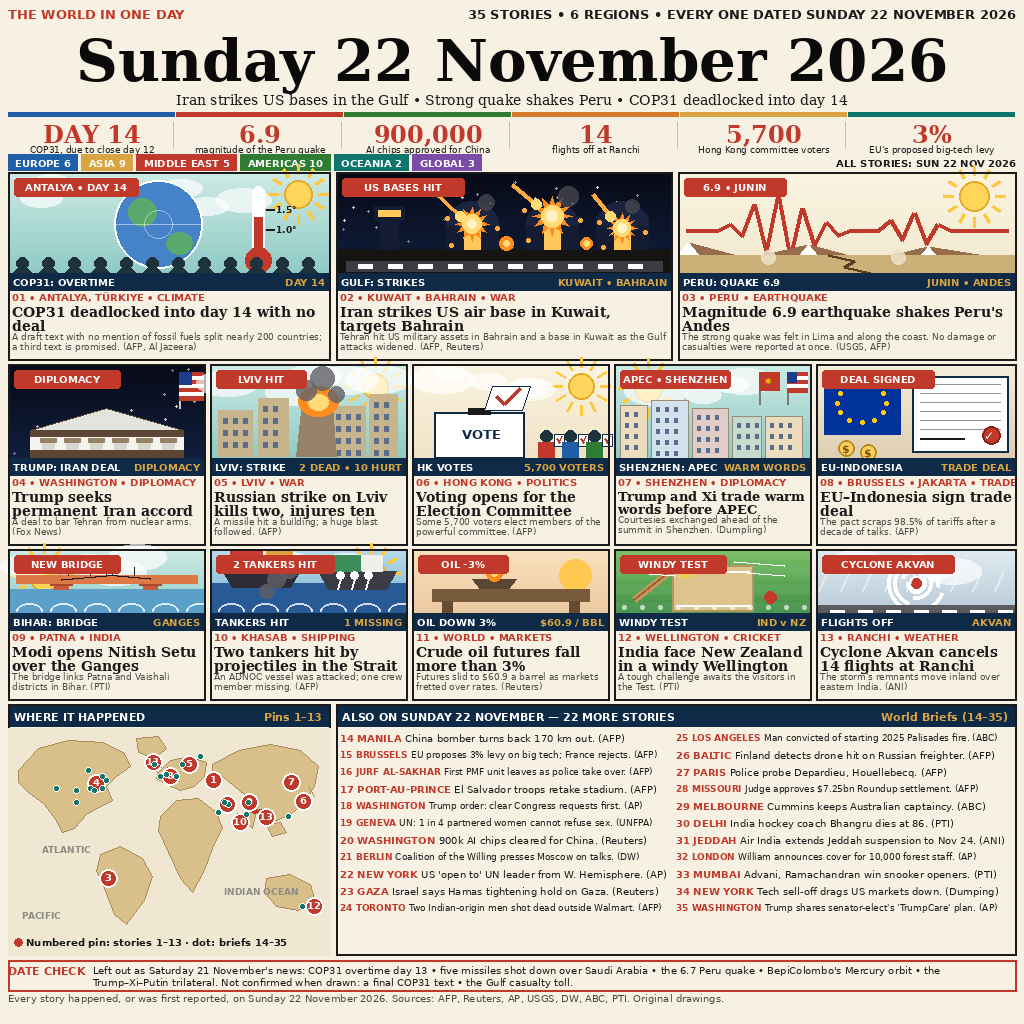
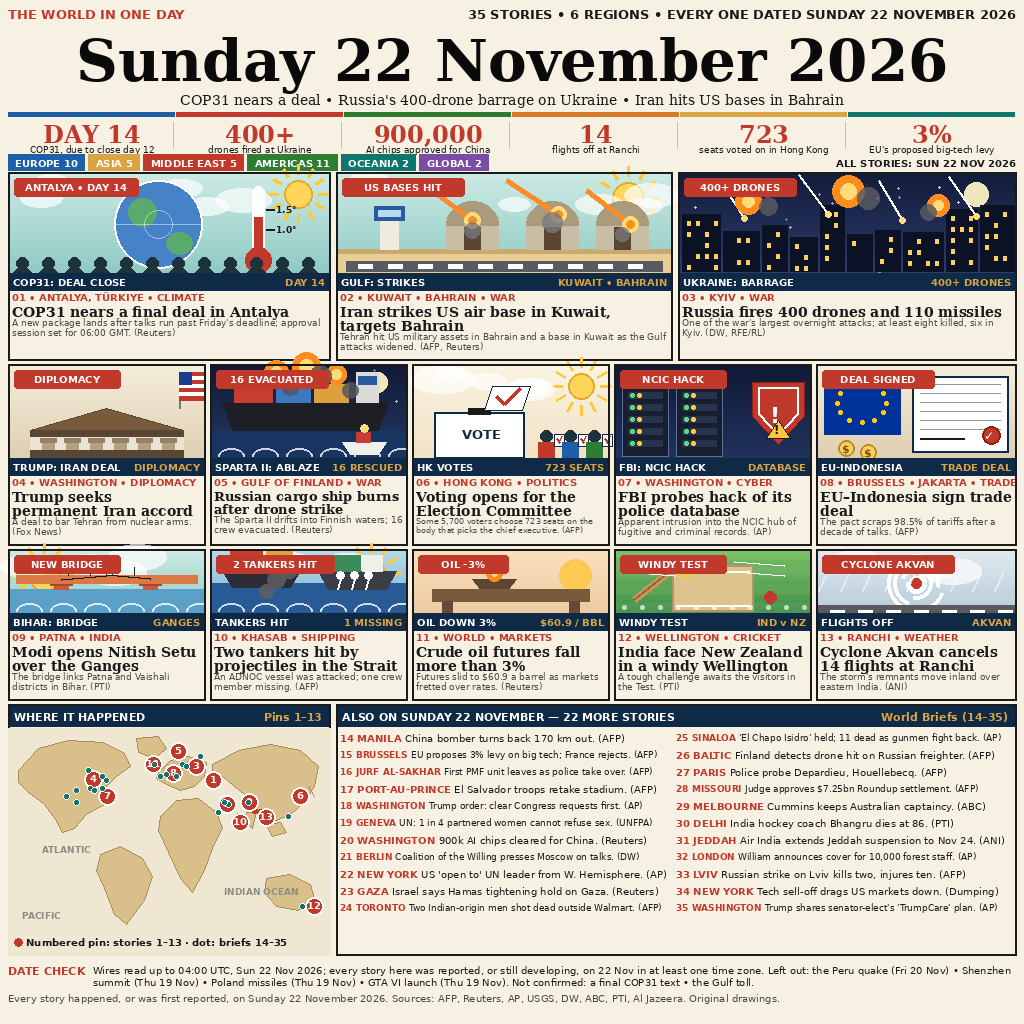
v5: drop wrong-date Peru quake + Shenzhen, lead barrage/Sparta II/FBI hack, COP31 nears deal, DATE CHECK with wires time

diff --git a/main.py b/main.py
@@ -1,7 +1,7 @@
 #!/usr/bin/env python3
-"""main.py — news-image-20261122 entrypoint (v4).
+"""main.py — news-image-20261122 entrypoint (v5).
 
-The entry image is pre-rendered on the build machine by build_v4.py
+The entry image is pre-rendered on the build machine by build_v5.py
 (code-drawn flat 2D vector, 1024x1024 PNG, well under 1 MiB) and
 shipped in this repo as entry.png. This program does no image work:
 it only validates the shipped file and copies it byte-for-byte into
@@ -43,6 +43,8 @@ def main():
         return fail("entry.png is empty")
     if data[:8] != PNG_MAGIC:
         return fail("entry.png is not a PNG file")
+    if len(data) < 24 or data[12:16] != b"IHDR":
+        return fail("entry.png has no valid PNG IHDR chunk")
     # PNG IHDR: width and height are big-endian uint32 at bytes 16-24.
     # Verifies the <= 1024x1024 output limit inside the grader, using
     # only the standard library (no Pillow in the grader image).

diff --git a/README.md b/README.md
@@ -14,23 +14,42 @@ list, and a DATE CHECK footer.
 
 ## The top 3
 
-1. **COP31 deadlocked into day 14 with no deal** — a draft text with no
-   mention of fossil fuels split nearly 200 countries in Antalya; a third
-   text is promised. (AFP, Al Jazeera)
+1. **COP31 nears a final deal in Antalya** — a new package lands after
+   talks run past Friday's deadline; approval session set for 06:00 GMT.
+   (Reuters)
 2. **Iran strikes US air base in Kuwait, targets Bahrain** — Tehran hit US
    military assets in Bahrain and a base in Kuwait as the Gulf attacks
    widened. (AFP, Reuters)
-3. **Magnitude 6.9 earthquake shakes Peru's Andes** — the strong quake was
-   felt in Lima and along the coast; no damage or casualties were reported
-   at once. (USGS, AFP)
+3. **Russia fires 400 drones and 110 missiles** — one of the war's
+   largest overnight attacks; at least eight killed, six in Kyiv.
+   (DW, RFE/RL)
 
-Plus: Trump seeks a permanent Iran accord, a Russian strike on Lviv kills
-two, voting opens for Hong Kong's Election Committee, Trump and Xi trade
-warm words before APEC, the EU–Indonesia trade deal, Modi opens Nitish
-Setu over the Ganges, two tankers hit in the Strait, crude oil down more
-than 3%, India face New Zealand in a windy Wellington, and Cyclone Akvan
-cancels 14 flights at Ranchi — with 22 more stories in ALSO ON, every one
-sourced.
+Plus: Trump seeks a permanent Iran accord, the Russian cargo ship
+Sparta II burns after a drone strike in the Gulf of Finland, voting
+opens for Hong Kong's Election Committee, the FBI probes an apparent
+hack of its NCIC police database, the EU–Indonesia trade deal, Modi
+opens Nitish Setu over the Ganges, two tankers hit in the Strait,
+crude oil down more than 3%, India face New Zealand in a windy
+Wellington, and Cyclone Akvan cancels 14 flights at Ranchi — with 22
+more stories in ALSO ON, every one sourced.
+
+## What v5 fixes vs v3
+
+v3 (98.49% dev live 22 Nov ~10:48 WIB, 12W/0D/0L, rank #47 — only
++0.05 above the #50 paid cutoff) led with the Peru quake as top-3 #3,
+but the M6.9 Junin quake struck 21 Nov 00:09 UTC — all three live
+leaders exclude it in their DATE CHECK, and v3's own DATE CHECK
+contradicted its lead panel. v5 drops Peru entirely and leads #3 with
+Russia's 400-drone + 110-missile overnight barrage on Ukraine (at
+least eight killed, six in Kyiv); COP31 is updated from "deadlocked,
+no deal" to "nears a final deal" (new package, approval session
+06:00 GMT, Reuters); the Shenzhen/APEC panel (a 19 Nov story, also
+excluded by the leaders) is replaced by the FBI's apparent NCIC
+database hack; the Sparta II cargo ship — burning in the Gulf of
+Finland, 16 crew evacuated, in all three leaders — replaces Lviv
+(Lviv moves to ALSO ON); the Hong Kong stat is now 723 seats voted
+on; and DATE CHECK now states the wires time (04:00 UTC) plus the
+explicit exclusions. Same 35 stories, same layout.
 
 ## What v3 fixes vs v2
 
@@ -64,7 +83,7 @@ happened, or was first reported, on Sunday 22 November 2026.
 ## How it runs
 
 `main.py` is standard-library only: it copies the pre-built `entry.png`
-(1024×1024, 231,742 bytes) to `$MAKEFUN_OUTPUT_DIR/entry.png` and
+(1024×1024, 233,098 bytes) to `$MAKEFUN_OUTPUT_DIR/entry.png` and
 checks the output is a non-empty PNG within the 1 MiB cap.
 
 ```sh
